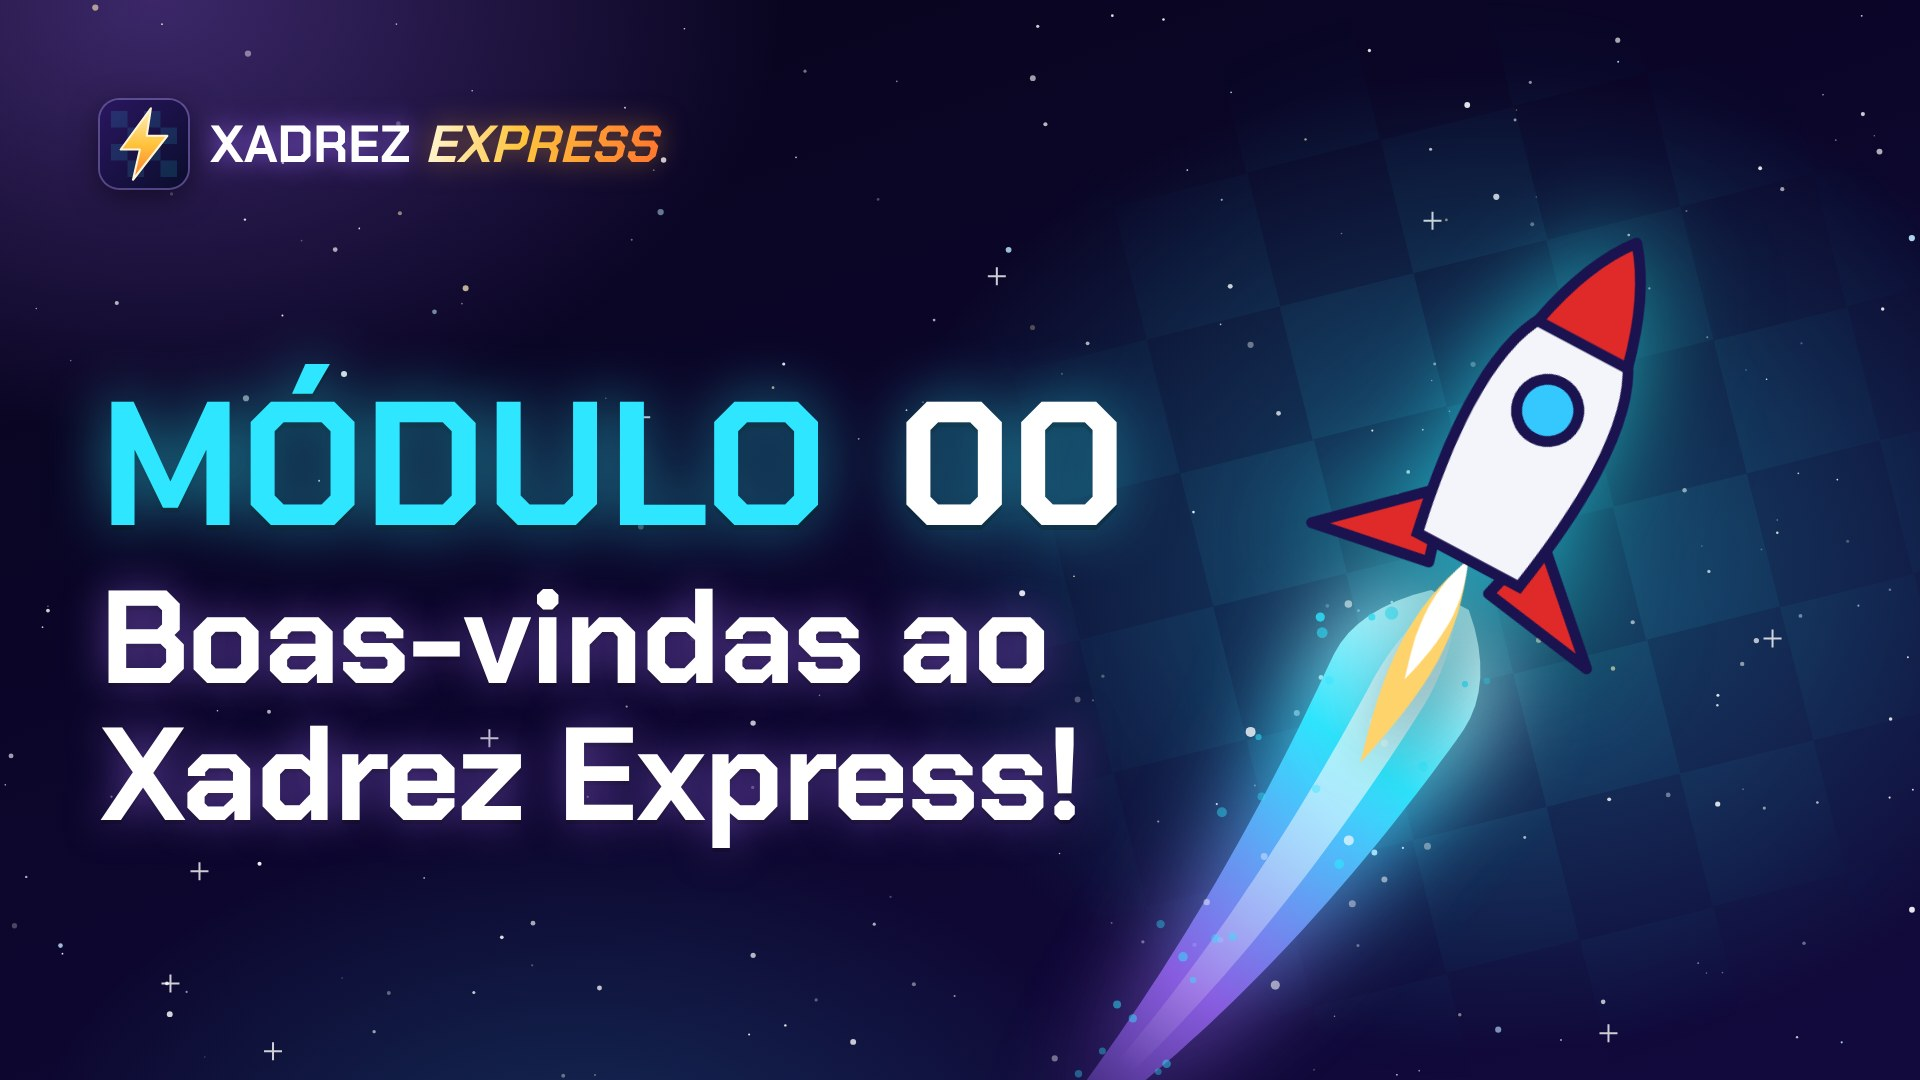
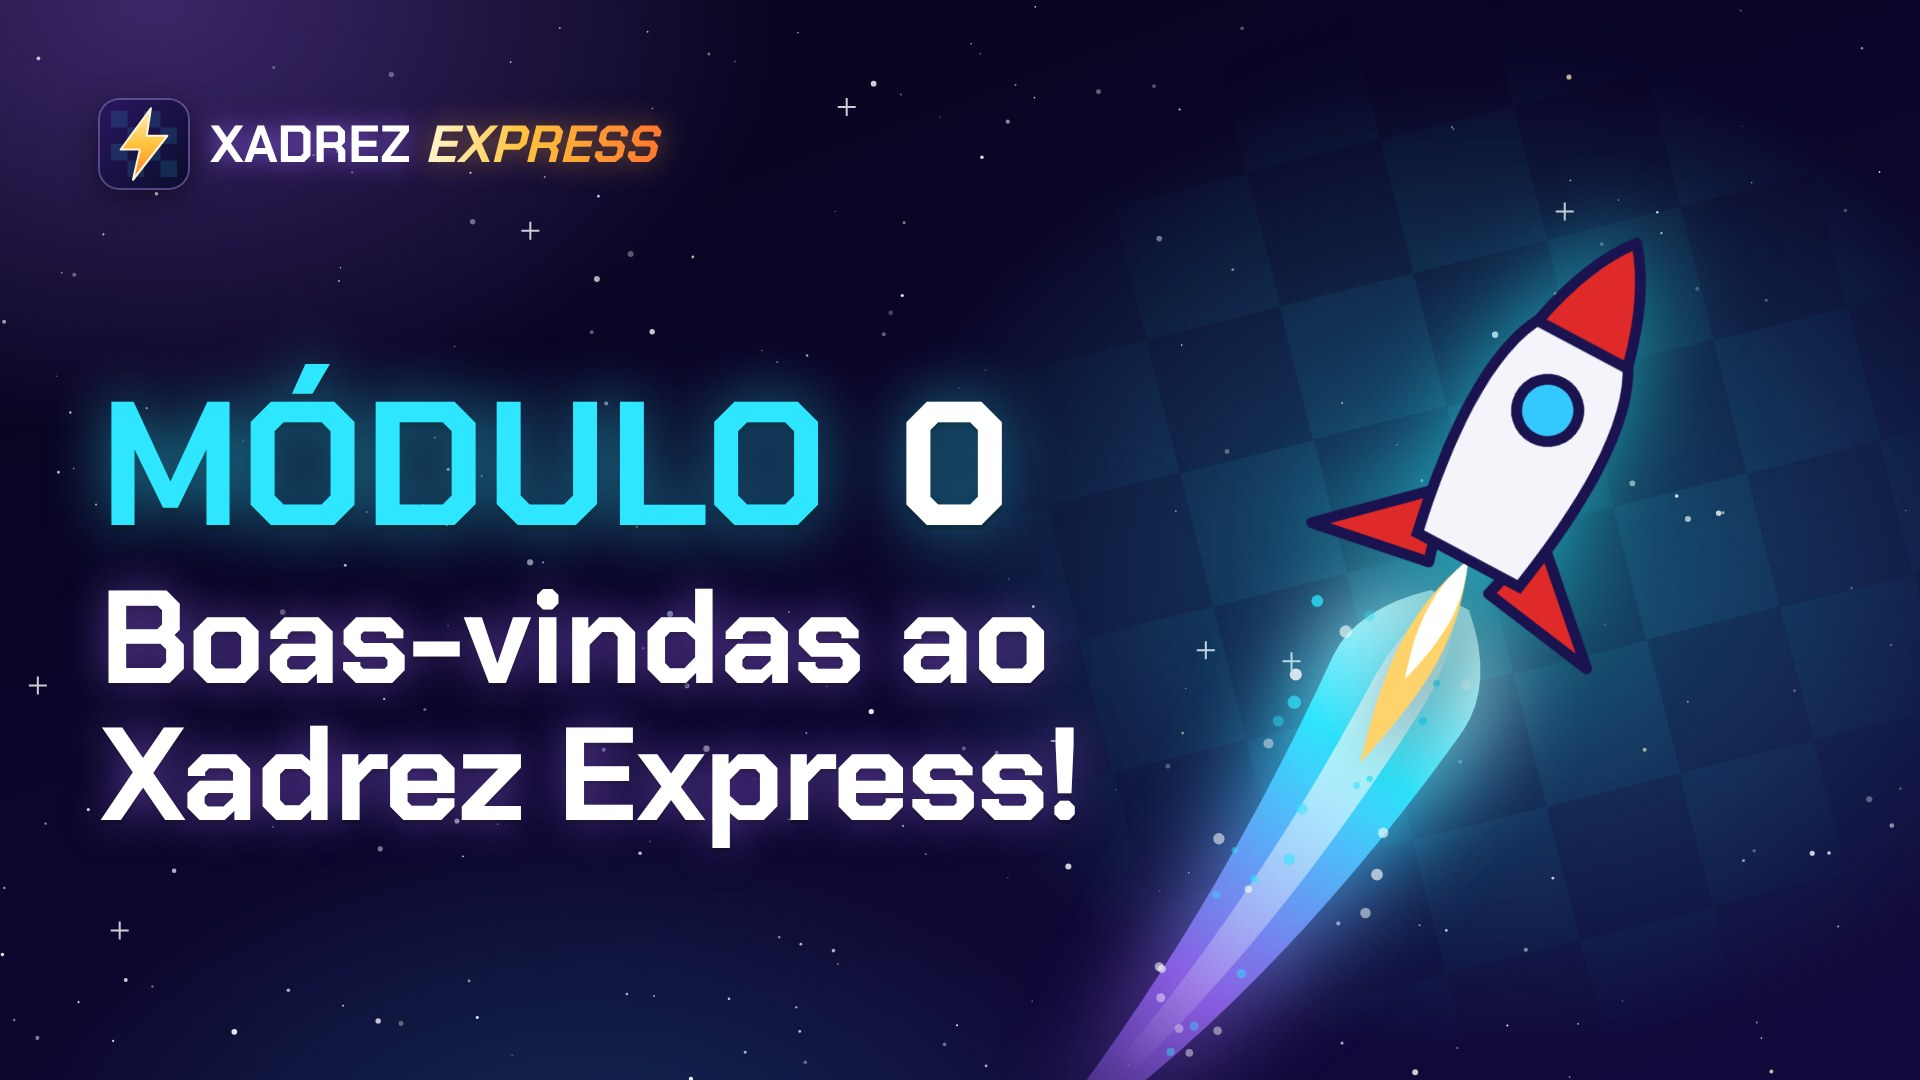
Capas: numeração igual à da Hotmart e capas do Módulo 0
Claude-Session: https://claude.ai/code/session_01TiCEz9v6sPBGKMhfiJviFX

Changed region(s): [[0.5, 0.3361, 0.5938, 0.4889], [0.6562, 0.6111, 0.6875, 0.6722], [0.5938, 0.9472, 0.625, 0.9778]]

diff --git a/capas/lista.js b/capas/lista.js
@@ -1,22 +1,22 @@
 // A lista de módulos e aulas do curso. É o ÚNICO arquivo a mexer para trocar um título,
 // uma peça, uma cor ou a duração. Depois de mudar: node capas/gera.js
 //
-// Módulo:  numero   o número que aparece na capa ("MÓDULO 00")
+// Módulo:  numero   o número que aparece na capa ("MÓDULO 0"), igual ao da Hotmart
 //          titulo   o título do módulo
 //          peca     wk wq wr wb wn wp (brancas), bk bq br bb bn bp (pretas) ou 'foguete'
 //          cor      opcional: ciano, ouro, rosa, roxo ou laranja. Sem ela, as cores
 //                   se alternam nessa ordem, seguindo a posição do módulo na lista.
-// Aula:    rotulo   o que aparece no selo ("AULA 00", "AULA EXTRA 01")
+// Aula:    rotulo   o que aparece no selo ("AULA 0", "AULA EXTRA 01"), igual ao da Hotmart
 //          titulo   o título da aula
 //          peca     opcional: a peça ou 'foguete' (sem ela, usa a do módulo)
 //          duracao  opcional: '0:45' vira um selo com o tempo do vídeo
 module.exports = [
   {
-    numero: '00',
+    numero: '0',
     titulo: 'Boas-vindas ao Xadrez Express!',
     peca: 'foguete',
     aulas: [
-      { rotulo: 'Aula 00', titulo: 'Bem-vindo ao Xadrez Express!' },
+      { rotulo: 'Aula 0', titulo: 'Bem-vindo ao Xadrez Express!' },
       { rotulo: 'Aula Extra 01', titulo: 'Como Funciona o Xadrez Express?', peca: 'wn' },
       { rotulo: 'Aula Extra 02', titulo: 'Prepare-se para Aprender!', peca: 'wp' },
     ],

diff --git a/capas/gera.js b/capas/gera.js
@@ -24,7 +24,7 @@ const fatia = t => t.toLowerCase().normalize('NFD').replace(/[̀-ͯ]/g, '').repl
   // a fila de capas
   const fila = [];
   lista.forEach((m, i) => {
-    const cor = m.cor || ORDEM[i % ORDEM.length], base = 'modulo-' + m.numero;
+    const cor = m.cor || ORDEM[i % ORDEM.length], base = 'modulo-' + String(m.numero).padStart(2, '0');   // o arquivo sempre com dois dígitos, para ficar em ordem
     if (so && so !== m.numero) return;
     fila.push({ tipo: 'modulo', arquivo: base + '.jpg', dados: { numero: m.numero, titulo: m.titulo, peca: m.peca, cor } });
     (m.aulas || []).forEach(a => fila.push({ tipo: 'aula', arquivo: base + '-' + fatia(a.rotulo) + '.jpg',
